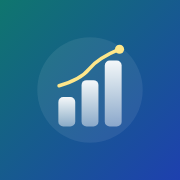
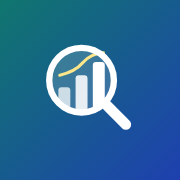
アプリ名を「数字のミカタ」に変更し、名前に合わせたアイコンに刷新
- 画面タイトル・manifest（name / short_name）・ホーム画面名・README・レポート・結果テキストを変更
- アイコンを案A「ルーペ」（棒グラフと上昇線をのぞくルーペ）に変更し、PNG を再生成
- Service Worker のキャッシュと APP_VERSION を v9 に更新

Claude-Session: https://claude.ai/code/session_0132UE5pDsXTYnVNkRSP1J9U

Changed region(s): [[0.25, 0.25, 0.75, 0.7222]]

diff --git a/index.html b/index.html
@@ -9,8 +9,8 @@
   <meta name="mobile-web-app-capable" content="yes">
   <!-- default：ステータスバーを表示領域の外に出し、内容と重ならないようにする -->
   <meta name="apple-mobile-web-app-status-bar-style" content="default">
-  <meta name="apple-mobile-web-app-title" content="財務分析">
-  <title>財務分析ツール</title>
+  <meta name="apple-mobile-web-app-title" content="数字のミカタ">
+  <title>数字のミカタ</title>
   <link rel="manifest" href="manifest.webmanifest">
   <link rel="icon" href="icons/icon.svg" type="image/svg+xml">
   <link rel="apple-touch-icon" sizes="180x180" href="icons/icon-180.png">
@@ -18,7 +18,7 @@
 </head>
 <body>
   <header class="app-header">
-    <h1>財務分析ツール</h1>
+    <h1>数字のミカタ <span class="app-sub">財務分析ツール</span></h1>
     <p class="app-note">金額単位：<span class="unit-name" data-scope="all">千円</span> ／ データはこの端末のブラウザ内にのみ保存されます</p>
   </header>
 

diff --git a/js/calc.js b/js/calc.js
@@ -380,7 +380,7 @@ export function buildResultText(data, results, warnings = [], periodIndex = 0, o
   const period = data?.periods?.[periodIndex];
   const indicators = opts?.indicators ?? INDICATORS;
   const lines = [];
-  lines.push(`【財務分析結果】${data?.companyName || '（会社名未入力）'} ${period?.label || ''}`.trim());
+  lines.push(`【財務分析結果｜数字のミカタ】${data?.companyName || '（会社名未入力）'} ${period?.label || ''}`.trim());
   lines.push(`（金額単位：${opts?.amountUnit ?? '千円'}、期末残高ベース）`);
   if (warnings.length) {
     lines.push('');

diff --git a/css/style.css b/css/style.css
@@ -564,3 +564,6 @@ input[type="text"]:focus { outline: 2px solid var(--primary); outline-offset: -1
 .unit-field { display: grid; grid-template-columns: minmax(0, 1fr) minmax(0, 9em); gap: 2px 8px; align-items: center; padding: 10px 0; border-bottom: 1px solid var(--border); }
 .unit-field-name { font-size: 15px; }
 .unit-field-note { grid-column: 1 / -1; margin: 0; }
+
+.app-sub { font-size: 12px; font-weight: normal; color: var(--muted); margin-left: 4px; }
+.report-app { margin: -4px 0 4px; font-size: 10pt; color: #555; }

diff --git a/js/pwa.js b/js/pwa.js
@@ -2,7 +2,7 @@
 // いずれも非対応の環境ではなにもせず、エラーで止めない。
 
 // アプリのバージョン表示用。sw.js の CACHE_VERSION と同じ値にする（scripts/check-pwa.js で確認）
-export const APP_VERSION = 'v8';
+export const APP_VERSION = 'v9';
 
 // 新しいバージョンが待機中になったら onUpdateReady(apply) を呼ぶ。
 // apply() を呼ぶと新しいバージョンに切り替えて再読み込みする。

diff --git a/js/ui.js b/js/ui.js
@@ -752,6 +752,7 @@ function renderReport() {
   const now = new Date();
   box.append(
     el('h1', { text: '財務分析レポート' }),
+    el('p', { className: 'report-app', text: '数字のミカタ' }),
     el('p', { className: 'report-meta', text: `会社名：${data.companyName || '（未入力）'}　対象期：${labels.join('、')}　作成日：${formatDateTime(now).slice(0, 10)}　金額単位：${unitName('report')}` }),
   );
 

diff --git a/sw.js b/sw.js
@@ -3,7 +3,7 @@
 // 外部へのリクエストは行わない（同一オリジンの GET のみ扱う）。
 
 const CACHE_PREFIX = 'fin-tool-';
-const CACHE_VERSION = 'v8';
+const CACHE_VERSION = 'v9';
 const CACHE_NAME = `${CACHE_PREFIX}${CACHE_VERSION}`;
 
 // キャッシュ対象（sw.js からの相対パス。"/" から始まる絶対パスは使わない）

diff --git a/README.md b/README.md
@@ -1,8 +1,8 @@
-# 財務分析ツール
+# 数字のミカタ
 
-iPhone のブラウザで使える財務分析ツールです。HTML / CSS / JavaScript のみで作成しており、ビルドや外部ライブラリは使っていません。
+「数字のミカタ」は、iPhone のブラウザで使える財務分析ツールです（名前は、決算書の数字の「見方」がわかり、分析の「味方」になる、という意味です）。HTML / CSS / JavaScript のみで作成しており、ビルドや外部ライブラリは使っていません。
 
-- 金額単位：千円
+- 金額単位：千円（設定で区分ごとに円・百万円にも切り替え可能）
 - データはこの端末のブラウザ（localStorage）にのみ保存し、外部へは送信しません
 - 計算結果の丸めは表示時のみ行い、内部では丸めません
 
@@ -285,7 +285,7 @@ node scripts/check-pwa.js
 
 ## アイコンの作成手順
 
-- 元データ：`icons/icon.svg`（デザイン案C「グラス・バー」：ティール→ブルーのグラデーション背景に、半透明の棒グラフ3本と上昇する推移線。オリジナル図形で、実在のブランドには似せていません。背景は全面塗りで、図形は maskable の安全領域内に収めています）
+- 元データ：`icons/icon.svg`（アプリ名「数字のミカタ」に合わせた案A「ルーペ」：ティール→ブルーのグラデーション背景に、棒グラフと上昇線をのぞくルーペ。オリジナル図形で、実在のブランドには似せていません。背景は全面塗りで、図形は maskable の安全領域内に収めています）
 - 変換ツール：Playwright（Chromium）で SVG を表示し、180 / 192 / 512px のスクリーンショットを PNG として保存
 - 手順：
 
